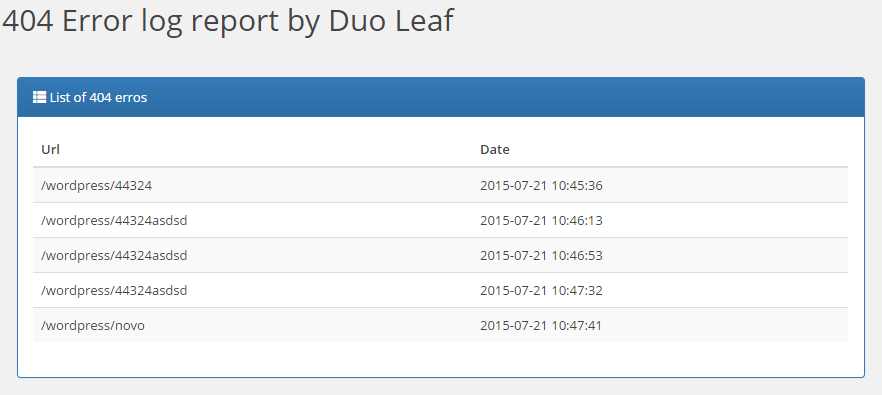
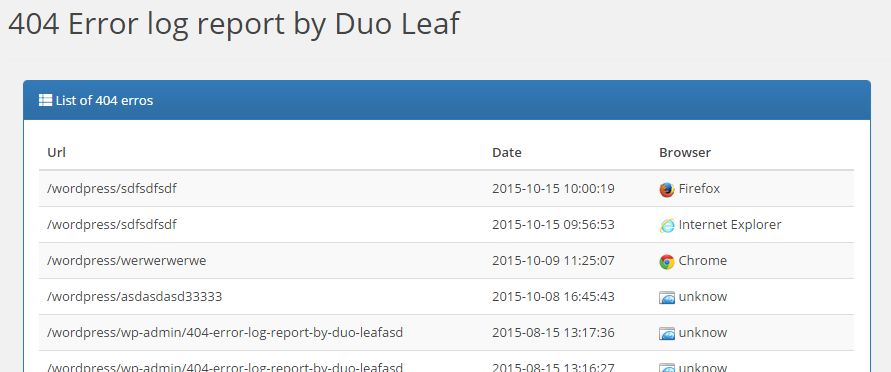
Improved browser info
git-svn-id: https://plugins.svn.wordpress.org/404-error-log-report-by-duo-leaf/trunk@1266717 b8457f37-d9ea-0310-8a92-e5e31aec5664

diff --git a/assets/js/custom.js b/assets/js/custom.js
@@ -1,0 +1,3 @@
+jQuery(function () {
+  jQuery('[data-toggle="tooltip"]').tooltip();
+});

diff --git a/views/report.php b/views/report.php
@@ -33,8 +33,13 @@ class dl_erl_ViewReport {
                                     <?php foreach ($this->view->logs as $log) { ?>
                                         <tr>
                                             <td><?php echo $log->url; ?></td>
-                                            <td><?php echo $log->date; ?></td>
-                                            <td><?php echo $log->useragent; ?></td>
+                                            <td>
+                                                <?php echo $log->date; ?>
+                                            </td>
+                                            <td>
+                                                <img src="<?php echo  WP_PLUGIN_URL . '/' . $this->view->pluginInfo->name . '/assets/img/browsers/' . $this->view->userAgentIdentification->getBrowserLabel($log->useragent); ?>.png" />
+                                                <span data-toggle="tooltip" data-placement="top" title="<?php echo 'User agent: ' . $log->useragent; ?>"><?php echo $this->view->userAgentIdentification->getBrowserLabel($log->useragent); ?><span>
+                                            </td>
                                         </tr>
                                     <?php } ?>
                                 </tbody>

diff --git a/views/panel.php b/views/panel.php
@@ -13,7 +13,7 @@
             <div class="panel-heading">Did you like it?</div>
             <div class="panel-body">
                 <img src="<?php echo plugins_url('../assets/img/', __FILE__) ?>star-icon.svg" class="img-responsive center-block" width="50px" />
-                <p class="text-center"><a href="https://wordpress.org/plugins/404-error-log-report-by-duo-leaf/" target="blank">If you enjoy our plugin, please give it 5 stars on WordPress: Rate the plugin</a><p>            
+                <p class="text-center"><a href="https://wordpress.org/plugins/<?php echo $this->view->pluginInfo->name; ?>" target="blank">If you enjoy our plugin, please give it 5 stars on WordPress: Rate the plugin</a><p>            
             </div>
         </div>
     </div>

diff --git a/core/useragent-identification.php b/core/useragent-identification.php
@@ -1,0 +1,29 @@
+<?php
+
+class dl_elr_userAgentIdentification {
+
+    public function getBrowserLabel($userAgentString) {
+
+        $browser = 'unknow';
+
+        if (stripos($userAgentString, 'Firefox') !== false) {
+            $browser = 'Firefox';
+        }
+
+        if (stripos($userAgentString, 'MSIE') !== false || stripos($userAgentString, 'Trident') !== false) {
+            $browser = 'Internet Explorer';
+        }
+
+        if (stripos($userAgentString, 'chrome') !== false) {
+            $browser = 'Chrome';
+        }
+        
+        if (stripos($userAgentString, 'Opera') !== false) {
+            $browser = 'Opera';
+        }
+
+
+        return $browser;
+    }
+
+}

diff --git a/index.php b/index.php
@@ -3,10 +3,10 @@
 /**
  * Plugin Name: 404 Error log report by Duo Leaf
  * Plugin URI: http://DuoLeaf.com/
- * Version: 1.0.3
+ * Version: 1.0.4
  * Author: Duo Leaf
  * Author URI: http://DuoLeaf.com/404-error-log-report/
- * Description: Generate a report of 404 errors that occurs in your site.
+ * Description: Generate a report of 404 (page not found) errors that occurs in your site.
  * License: GPLv3 or later
  */
 require_once(WP_PLUGIN_DIR . '/404-error-log-report-by-duo-leaf/duo-leaf/duoleaf.php');

diff --git a/actions/report.php b/actions/report.php
@@ -31,6 +31,11 @@ class dl_erl_ActionReport {
         $view->logs = $wpdb->get_results('SELECT * FROM ' . $this->pluginInfo->tableLogName . ' ORDER BY date DESC;');
         $view->pluginInfo = $this->pluginInfo;
         
+        require_once(WP_PLUGIN_DIR . '/404-error-log-report-by-duo-leaf/core/useragent-identification.php');
+        $view->userAgentIdentification = new dl_elr_userAgentIdentification();
+
+        
+        
         return $view;
     }
 
